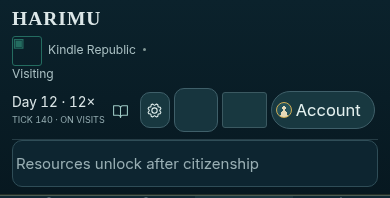
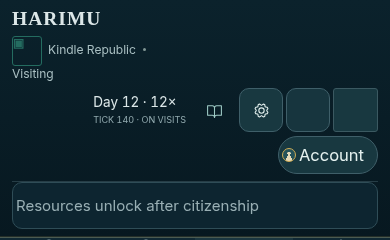
S2: phone Account pill fits next to #552's 44px controls; guard tolerates double quotes and multi-line define

diff --git a/app/game-shell.css b/app/game-shell.css
@@ -372,5 +372,5 @@ body:has(.harimu-game){overflow:auto}
 .game-hud-v2 .game-account button[aria-controls="harimu-account-menu"]{display:inline-flex;align-items:center;gap:6px;padding-left:6px;border-radius:999px;border-color:#3f5f69}
 .game-hud-v2 .game-account button[aria-controls="harimu-account-menu"]::before{content:'';flex:none;width:18px;height:18px;border-radius:50%;border:1px solid #d0ad54;background:radial-gradient(circle at 50% 36%,#e6d9b8 0 17%,transparent 18%),radial-gradient(ellipse at 50% 112%,#e6d9b8 0 38%,transparent 39%),#25525a}
 .game-hud-v2 .game-account button[aria-controls="harimu-account-menu"]:hover{border-color:#d0ad5499}
-@media(max-width:760px){.game-hud-v2 .game-account button[aria-controls="harimu-account-menu"]{gap:4px;padding-left:4px}.game-hud-v2 .game-account button[aria-controls="harimu-account-menu"]::before{width:16px;height:16px}.game-hud-v2 .game-resources{gap:3px}.game-hud-v2 .game-resources>*,.game-hud-v2 .game-resources>.game-hud-help{flex-basis:calc(64px * var(--text-scale, 1))}.game-hud-v2 .game-resources>div,.game-hud-v2 .game-resources>.game-hud-help>summary,.game-hud-v2 .game-resources>.game-wallet-button{padding-inline:3px;column-gap:3px}}
+@media(max-width:760px){.game-hud-v2 .game-account button[aria-controls="harimu-account-menu"]{gap:3px;padding-left:3px}.game-hud-v2 .game-account button[aria-controls="harimu-account-menu"]::before{width:14px;height:14px}.game-hud-v2 .game-account{column-gap:3px}.game-hud-v2 .game-resources{gap:3px}.game-hud-v2 .game-resources>*,.game-hud-v2 .game-resources>.game-hud-help{flex-basis:calc(64px * var(--text-scale, 1))}.game-hud-v2 .game-resources>div,.game-hud-v2 .game-resources>.game-hud-help>summary,.game-hud-v2 .game-resources>.game-wallet-button{padding-inline:3px;column-gap:3px}}
 @media(min-width:1101px){.game-hud-v2 .game-account{gap:10px}}
